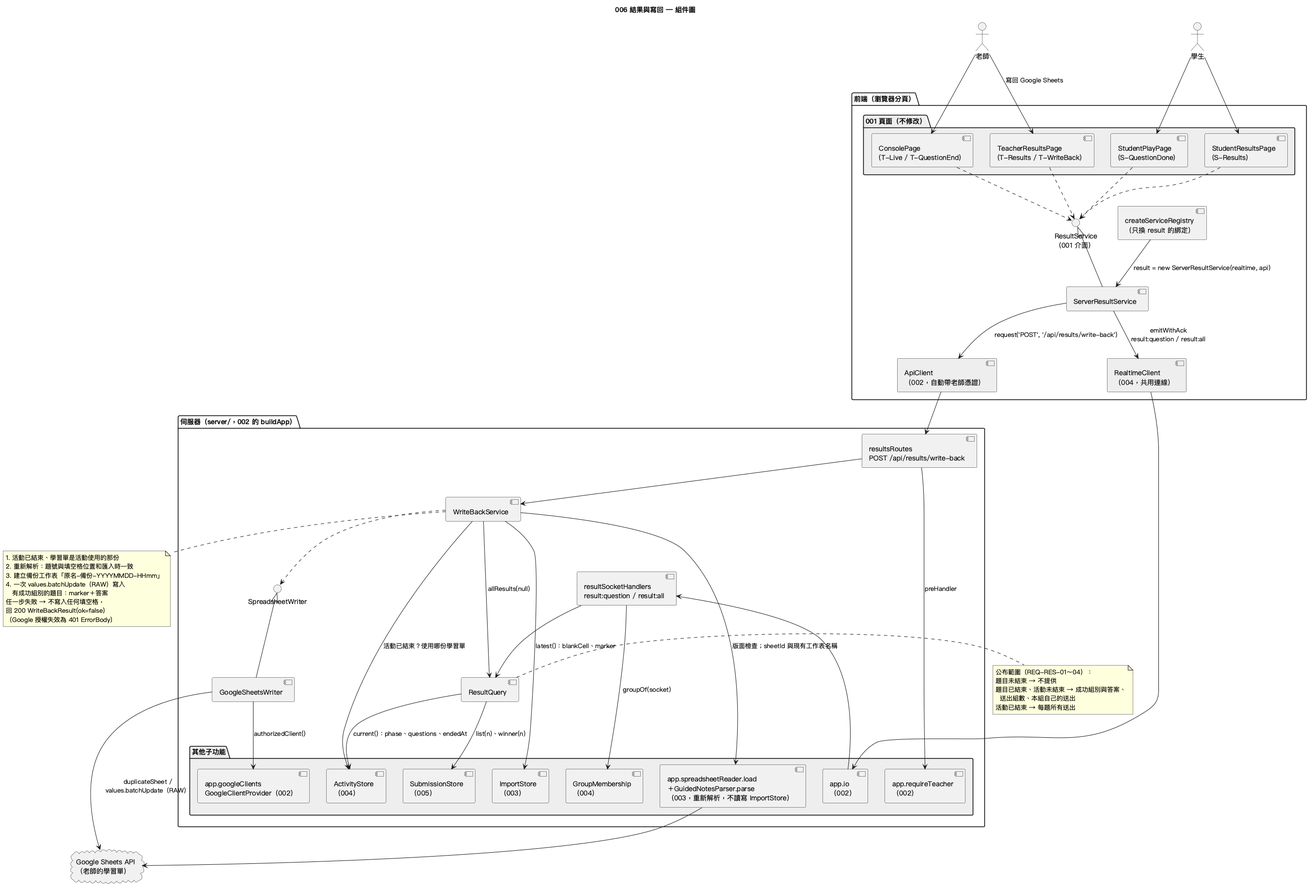
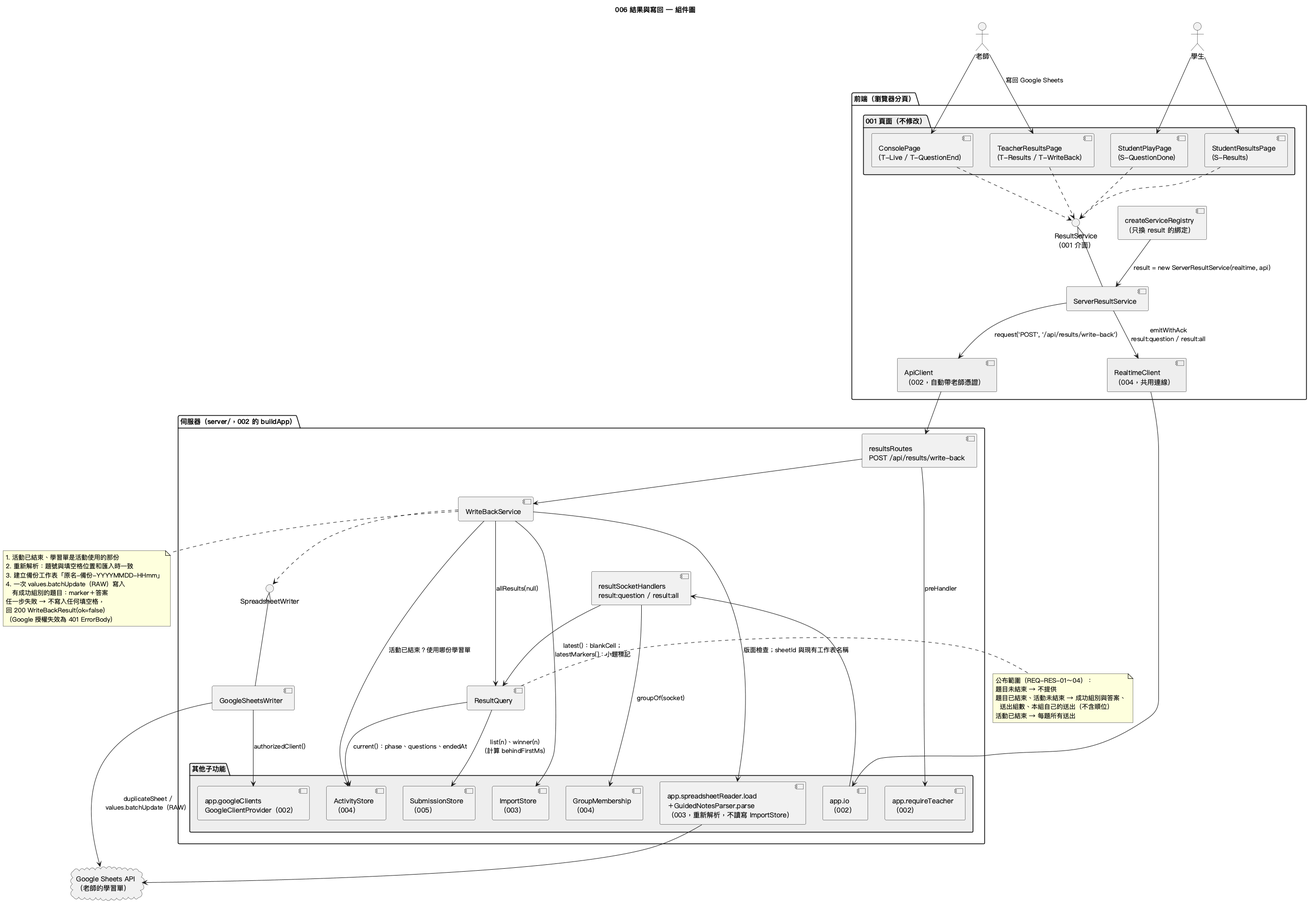
spec(006): 依 spec 修改同步設計、任務與圖表
spec 配合 001 最終版修改後，plan、research、data-model、contracts、quickstart、tasks 與三張圖也要跟著改，否則實作會照舊的介面做。重跑 analyze 沒有 CRITICAL、HIGH、MEDIUM。

diff --git a/specs/006-results-export/tasks.md b/specs/006-results-export/tasks.md
@@ -24,7 +24,7 @@ description: "Task list for 006 結果與寫回"
 **Purpose**: 006 的測試替身
 
 - [ ] T001 [P] 建立 `server/tests/helpers/FakeSpreadsheetWriter.ts`：實作 `SpreadsheetWriter`，記錄 `duplicateSheet`、`writeTexts` 的呼叫順序與參數；可設定任一方法丟出指定的錯誤（Google 401／403／404／500、逾時）
-- [ ] T002 [P] 建立 `server/tests/helpers/resultFakes.ts`：004 `ActivityStore`、`GroupMembership`，005 `SubmissionStore`（`list`、`winner`），003 `ImportStore`、`SpreadsheetReader`（`app.spreadsheetReader` 的替身，經 `buildApp` 的 `deps.spreadsheetReader` 注入；以 003 的 `server/tests/helpers/gridBuilder.ts` 產生 `SheetGrid`；可設定丟出 `SheetsReadError` 或 Google 401）的替身；`ActivityState` 含 `endedAt`；提供「4 題、6 組、第 2 題已結束、第 3 題搶答中」與「4 題已全部結束（含沒有送出、有 `UNJUDGED` 的題目）」兩份固定資料，題目內容與 001 `MockFixtures` 的「題組＋單題範本」相同（4 題，其中 2 題為題組；伺服器測試不引用前端檔案）
+- [ ] T002 [P] 建立 `server/tests/helpers/resultFakes.ts`：004 `ActivityStore`、`GroupMembership`，005 `SubmissionStore`（`list`、`winner`），003 `ImportStore`（`latest()` 與 `latestMarkers()`，題組小題帶「（1）」等標記）、`SpreadsheetReader`（`app.spreadsheetReader` 的替身，經 `buildApp` 的 `deps.spreadsheetReader` 注入；以 003 的 `server/tests/helpers/gridBuilder.ts` 產生 `SheetGrid`；可設定丟出 `SheetsReadError` 或 Google 401）的替身；`ActivityState` 含 `endedAt`；提供「4 題、6 組、第 2 題已結束、第 3 題搶答中」與「4 題已全部結束（含沒有送出、有 `UNJUDGED` 的題目，最後一題由老師接受而直接進入 `FINISHED`）」兩份固定資料，題目內容與 001 `MockFixtures` 的「題組＋單題範本」相同（4 題，其中 2 題為題組；伺服器測試不引用前端檔案）
 
 ---
 
@@ -48,7 +48,7 @@ description: "Task list for 006 結果與寫回"
 
 ### Tests for User Story 1 ⚠
 
-- [ ] T004 [P] [US1] `server/tests/unit/results/ResultQuery.question.test.ts`：已結束的題目回傳成功組別、各小題答案與 `submissionCount`（AC-01）；第 5 組只多拿到本組的送出、看不到其他沒有成功的組別（AC-02、REQ-RES-03）；有送出但沒有成功組別、沒有送出兩種情況（AC-03、AC-04）；`endedAt` 沒有該題時丟 `QUESTION_NOT_ENDED`（AC-05、REQ-RES-02）；`viewerGroup` 為 `null` 時 `submissions` 為空（AC-06）；沒有活動 → `NO_ACTIVITY`、題號 0、5、`1.5` → `QUESTION_NOT_FOUND`（REQ-RES-06）；`winner`、`submissions` 分別等於 005 替身的 `winner(n)`、`list(n)`（REQ-RES-05）
+- [ ] T004 [P] [US1] `server/tests/unit/results/ResultQuery.question.test.ts`：已結束的題目回傳成功組別、各小題答案與 `submissionCount`（AC-01）；第 5 組只多拿到本組的送出、看不到其他沒有成功的組別，回傳的 `winner` 與本組送出 `rank` 為 0、`behindFirstMs` 與 `submissions` 同長度且都是 0（AC-02、REQ-RES-03）；有送出但沒有成功組別、沒有送出兩種情況（AC-03、AC-04）；`endedAt` 沒有該題時丟 `QUESTION_NOT_ENDED`（AC-05、REQ-RES-02）；`viewerGroup` 為 `null` 時 `submissions` 為空（AC-06）；沒有活動 → `NO_ACTIVITY`、題號 0、5、`1.5` → `QUESTION_NOT_FOUND`（REQ-RES-06）；活動結束後 `winner`、`submissions` 分別等於 005 替身的 `winner(n)`、`list(n)`（REQ-RES-05）
 - [ ] T005 [P] [US1] `server/tests/integration/results/resultSocketHandlers.test.ts`：以 `socket.io-client` 連上 `buildApp` 建立的測試伺服器（`app.io`），`result:question` 的 ack 格式依 contracts；組別取自 `GroupMembership.groupOf(socket)`，payload 夾帶 `groupNumber` 也不影響結果（AC-06）；未結束的題目 ack `{ ok: false, code: "QUESTION_NOT_ENDED", message: "這一題還沒結束，結果尚未公布" }`（AC-05）
 - [ ] T006 [P] [US1] `server/tests/integration/results/resultLoad.test.ts`：200 個連線在題目結束後同時 emit `result:question`，全部在 1 秒內收到 ack（SC-005）
 - [ ] T007 [P] [US1] `frontend/tests/unit/ServerResultService.test.ts`（getQuestionResult 部分）：以假的 `RealtimeClient` 斷言呼叫 `emitWithAck("result:question", { questionNumber })`；ack 成功回傳 `QuestionResult`；ack `ok: false` → reject `UnexpectedError(message)`；`emitWithAck` reject 時原樣往上丟
@@ -71,13 +71,13 @@ description: "Task list for 006 結果與寫回"
 
 ### Tests for User Story 2 ⚠
 
-- [ ] T011 [P] [US2] `server/tests/unit/results/ResultQuery.all.test.ts`：`FINISHED` 時每題所有送出依 `rank` 排序，學生、老師、未加入組別的連線拿到相同內容（AC-07、AC-08、REQ-RES-04）；結束時待判定的送出為 `UNJUDGED` 且不是 `winner`（AC-09）；活動進行中只回第 1、2 題，每題只含呼叫者本組的送出（AC-10）；窮舉「題目未結束／已結束 × 活動未結束／已結束 × 6 組與 `null`」，未結束的題目送出出現 0 次、活動結束前他組未成功的送出出現 0 次（SC-006）
+- [ ] T011 [P] [US2] `server/tests/unit/results/ResultQuery.all.test.ts`：`FINISHED` 時每題所有送出依 `rank` 排序，學生、老師、未加入組別的連線拿到相同內容（AC-07、AC-08、REQ-RES-04）；結束時待判定的送出為 `UNJUDGED` 且不是 `winner`（AC-09）；`behindFirstMs` 以順位 1 的 `elapsedMs` 為基準，`elapsedMs` 3200、5000、5000 且第 2 名被接受時為 `[0, 1800, 1800]`，沒有送出時為 `[]`（AC-30、REQ-RES-21）；最後一題沒有 `endedAt` 但 `phase` 為 `FINISHED` 時仍算已結束；活動進行中只回第 1、2 題，每題只含呼叫者本組的送出且 `rank`、`behindFirstMs` 為 0（AC-10）；窮舉「題目未結束／已結束 × 活動未結束／已結束 × 6 組與 `null`」，未結束的題目送出出現 0 次、活動結束前他組未成功的送出出現 0 次（SC-006）
 - [ ] T012 [P] [US2] 在 `server/tests/integration/results/resultSocketHandlers.test.ts` 加入 `result:all`：ack 格式、只含已結束的題目、沒有活動 → `NO_ACTIVITY`
 - [ ] T013 [P] [US2] 在 `frontend/tests/unit/ServerResultService.test.ts` 加入 `getAllResults`：成功、`ok: false`、逾時
 
 ### Implementation for User Story 2
 
-- [ ] T014 [US2] 在 `server/src/results/ResultQuery.ts` 實作 `allResults`，在 `resultSocketHandlers.ts` 註冊 `result:all`，依 data-model 第 3 節
+- [ ] T014 [US2] 在 `server/src/results/ResultQuery.ts` 實作 `allResults` 與 `behindFirstMs` 的計算，在 `resultSocketHandlers.ts` 註冊 `result:all`，依 data-model 第 3 節與 research RD-12
 - [ ] T015 [US2] 在 `frontend/src/services/ServerResultService.ts` 實作 `getAllResults`
 
 **Checkpoint**: 全部結果可由伺服器取得，內容與 005 一致
@@ -93,7 +93,7 @@ description: "Task list for 006 結果與寫回"
 ### Tests for User Story 3 ⚠
 
 - [ ] T016 [P] [US3] `server/tests/unit/results/cellText.test.ts`：`composeCellText("（1）", "CPU") === "（1）CPU"`、標記為空時只回答案（AC-13、REQ-RES-08）；`backupName` 依本機時間產生 `原名-備份-YYYYMMDD-HHmm`，重名依序加 `-2`、`-3`（AC-17、REQ-RES-13）
-- [ ] T017 [P] [US3] `server/tests/unit/results/WriteBackService.success.test.ts`：呼叫順序為 `SpreadsheetReader.load` → `GuidedNotesParser.parse`（003 真正的 parser）→ `duplicateSheet`（`sheetId` 為該工作表的 `SheetGrid.sheetId`）→ `writeTexts`，`writeTexts` 只呼叫一次；`ImportStore.save` 沒有被呼叫（AC-12、REQ-RES-12、13、14）；寫入的儲存格恰好是有成功組別題目的每個小題 `blankCell`，沒有其他儲存格（AC-14、AC-15、REQ-RES-07、09、10）；題組小題的文字為「標記＋答案」（AC-13）；所有題目都沒有成功組別 → 不呼叫 `load`、`duplicateSheet`、`writeTexts`，回 `{ ok: true, cellCount: 0 }`（AC-18）；連續寫回兩次，兩次 `writeTexts` 的內容相同、`duplicateSheet` 各一次（AC-19、REQ-RES-18）；`cellCount` 等於寫入格數（REQ-RES-20）
+- [ ] T017 [P] [US3] `server/tests/unit/results/WriteBackService.success.test.ts`：呼叫順序為 `SpreadsheetReader.load` → `GuidedNotesParser.parse`（003 真正的 parser）→ `duplicateSheet`（`sheetId` 為該工作表的 `SheetGrid.sheetId`）→ `writeTexts`，`writeTexts` 只呼叫一次；`ImportStore.save` 沒有被呼叫（AC-12、REQ-RES-12、13、14）；寫入的儲存格恰好是有成功組別題目的每個小題 `blankCell`，沒有其他儲存格（AC-14、AC-15、REQ-RES-07、09、10）；題組小題的文字為「`latestMarkers()[blankCell]` ＋答案」，沒有標記的格子只寫答案（AC-13）；所有題目都沒有成功組別 → 不呼叫 `load`、`duplicateSheet`、`writeTexts`，回 `{ ok: true, cellCount: 0 }`（AC-18）；連續寫回兩次，兩次 `writeTexts` 的內容相同、`duplicateSheet` 各一次（AC-19、REQ-RES-18）；`cellCount` 等於寫入格數（REQ-RES-20）
 - [ ] T018 [P] [US3] `server/tests/unit/results/GoogleSheetsWriter.test.ts`（以假的 `@googleapis/sheets` 回應）：`writeTexts` 只送一次 `spreadsheets.values.batchUpdate`，`valueInputOption` 為 `RAW`，「=1+1」原樣送出（AC-16、REQ-RES-11）；範圍為 `'<工作表>'!<cell>`，名稱中的 `'` 變成 `''`；`duplicateSheet` 送出一個 `duplicateSheet` 請求（`sourceSheetId`、`newSheetName`）；每個請求設定 15 秒逾時；每次呼叫都向 `app.googleClients.authorizedClient()` 取授權
 - [ ] T019 [P] [US3] `server/tests/integration/results/resultsRoutes.test.ts`（Fastify `inject()`）：帶有效老師憑證 `POST /api/results/write-back` → `200` 與 `WriteBackResult`；`WriteBackService` 丟出 `WriteBackFailure` 時回 `200` 與 `{ ok: false, cellCount: 0, failureReason }`，只有 `GOOGLE_AUTH_EXPIRED` 回 `401` 與 `ErrorBody { code, message }`（以假的 `WriteBackService`）
 - [ ] T020 [P] [US3] 在 `frontend/tests/unit/ServerResultService.test.ts` 加入 `writeBack`：以假的 `ApiClient` 斷言呼叫 `request("POST", "/api/results/write-back")`；成功原樣回傳 body
@@ -140,9 +140,10 @@ description: "Task list for 006 結果與寫回"
 ## Phase 7: Polish & Cross-Cutting
 
 - [ ] T031 在 `frontend/src/services/createServiceRegistry.ts` 把 `result` 綁定改為 `ServerResultService`（傳入 004 的 `RealtimeClient` 與 002 的 `ApiClient`），並更新 001 的 `ServiceRegistry` 單元測試：`result` 不再是模擬實作，`MockResultService` 只留給測試
-- [ ] T032 `frontend/tests/e2e/results.spec.ts`（Playwright，沿用 005 的多分頁 E2E 環境，Google 以替身取代）：第 2 題結束時老師分頁與第 5 組分頁顯示成功組別與答案、第 5 組分頁顯示本組被拒絕的送出且沒有其他組的答案（AC-01、AC-02、SC-006）；活動結束後學生全部結果頁顯示每題所有送出並醒目標示本組（AC-07）、老師結果頁（AC-08）；T-WriteBack 的說明文字為「這些填空格原本的內容會被覆蓋，寫回前會先建立備份工作表」（AC-11、REQ-RES-19，需 001 先完成 spec「需請 001 修改」C1）；寫回成功與失敗的顯示（REQ-RES-20）
+- [ ] T032 `frontend/tests/e2e/results.spec.ts`（Playwright，沿用 005 的多分頁 E2E 環境，Google 以替身取代）：第 2 題結束時老師分頁與第 5 組分頁顯示成功組別與答案、第 5 組分頁顯示本組被拒絕的送出且沒有其他組的答案，題目進度只含已結束的題目（AC-01、AC-02、AC-10、SC-006）；活動結束後學生全部結果頁顯示每題所有送出並醒目標示本組（AC-07）、老師結果頁顯示每題所有送出與比第一名慢的秒數（AC-08、AC-30）；T-WriteBack 的說明文字為「這些填空格原本的內容會被覆蓋，寫回前會先建立備份工作表」（AC-11、REQ-RES-19，依 T035）；寫回成功與失敗的顯示（REQ-RES-20）
 - [ ] T033 依 [quickstart.md](quickstart.md) 的 16 個情境做人工驗證，紀錄寫入 `specs/006-results-export/manual-verification.md`（SC-001～SC-004、SC-008、AC-12～AC-17、AC-21～AC-26 的真實 Google 行為）
 - [ ] T034 圖表一致性驗證：比對程式碼與 `diagrams/006-*.puml` 的組件、類別、方法與呼叫順序，結果寫入 `specs/006-results-export/diagram-verification.md`（原則 I）
+- [ ] T035 確認 001 `TeacherResultsPage` 的 T-WriteBack 說明文字為「這些填空格原本的內容會被覆蓋，寫回前會先建立備份工作表」；不是時只改這段文字（001 FR-041 規定說明文字依 006 的寫回規則撰寫，不改頁面的欄位、按鈕與切換）（AC-11、REQ-RES-19）
 
 ---
 
@@ -161,6 +162,7 @@ description: "Task list for 006 結果與寫回"
 | REQ-RES-02 | AC-05 | T004、T005、T008、T009 |
 | REQ-RES-03 | AC-02、AC-06、SC-006 | T004、T005、T008、T032 |
 | REQ-RES-04 | AC-07、AC-08、AC-10 | T011、T012、T014、T015、T032 |
+| REQ-RES-21 | AC-30 | T011、T014、T032 |
 | REQ-RES-05 | AC-09 | T004、T011、T008 |
 | REQ-RES-06 | AC-05 | T004、T012、T008、T014 |
 | REQ-RES-07 | AC-12、SC-001 | T017、T023、T024、T033 |
@@ -175,7 +177,7 @@ description: "Task list for 006 結果與寫回"
 | REQ-RES-16 | AC-20 | T026、T029 |
 | REQ-RES-17 | AC-29 | T026、T029 |
 | REQ-RES-18 | AC-19、AC-28 | T017、T026、T029 |
-| REQ-RES-19 | AC-11 | T032（需 001 C1） |
+| REQ-RES-19 | AC-11 | T035、T032 |
 | REQ-RES-20 | AC-12、AC-22 | T017、T020、T025、T028、T030、T032 |
 
 | 成功準則 | 任務 |

diff --git a/specs/006-results-export/data-model.md b/specs/006-results-export/data-model.md
@@ -10,9 +10,9 @@
 
 | 實體／介面 | 欄位或方法 | 006 的用法 |
 | --- | --- | --- |
-| `QuestionResult` | `questionNumber`、`winner?: Submission`、`submissionCount`、`submissions: Submission[]` | `ResultQuery` 的回傳值；`submissions` 依公布範圍過濾（第 3 節） |
+| `QuestionResult` | `questionNumber`、`winner?: Submission`、`submissionCount`、`behindFirstMs: number[]`、`submissions: Submission[]` | `ResultQuery` 的回傳值；`submissions`、`behindFirstMs` 依公布範圍過濾（第 3 節） |
 | `Submission` | `questionNumber`、`groupNumber`、`answers`、`rank`、`elapsedMs`、`judgement` | 由 005 產生，006 只讀取 |
-| `SubQuestion` | `index`、`blankCell`、`marker` | `marker` 由 003 要求 001 新增（003 spec「需請 001 修改」）；006 寫入「`marker` ＋答案」 |
+| `SubQuestion` | `index`、`blankCell` | `blankCell` 是寫入位置；小題標記不在這裡，取自 003 `ImportStore.latestMarkers()`（第 5 節） |
 | `WriteBackResult` | `ok`、`cellCount`、`failureReason?` | 寫回的回傳值；`failureReason` 為 spec「寫回失敗原因」表的訊息 |
 | `ResultService` | `getQuestionResult`、`getAllResults`、`writeBack` | 由 `ServerResultService` 實作 |
 | `UnexpectedError` | `message` | `ServerResultService` 遇到非預期錯誤時 reject 的值（002 的 `ApiError` 符合這個形狀） |
@@ -39,10 +39,10 @@
 | `submissions: SubmissionStore` | 005 |
 | `questionResult(questionNumber, viewerGroup): QuestionResult` | `state = activities.current()`；`null` → `NO_ACTIVITY`；題號不在 `state.questions` → `QUESTION_NOT_FOUND`；`isEnded` 為 false → `QUESTION_NOT_ENDED`；否則回傳 `visible(full, state.phase === FINISHED, viewerGroup)` |
 | `allResults(viewerGroup): QuestionResult[]` | `state` 為 `null` → `NO_ACTIVITY`；否則依 `state.questions` 的順序，只含 `isEnded` 為 true 的題目，每題經 `visible` 過濾 |
-| `isEnded(state, questionNumber)` | `state.endedAt.has(questionNumber)`（research RD-03） |
-| `visible(full, finished, viewerGroup)` | `finished` → `full`；否則 `{ ...full, submissions: full.submissions.filter(s => s.groupNumber === viewerGroup) }`（`viewerGroup` 為 `null` 時為空陣列） |
+| `isEnded(state, questionNumber)` | `state.phase === FINISHED \|\| state.endedAt.has(questionNumber)`（research RD-03） |
+| `visible(full, finished, viewerGroup)` | `finished` → `full`；否則 `own = full.submissions.filter(s => s.groupNumber === viewerGroup)`（`viewerGroup` 為 `null` 時為空陣列），回傳 `{ questionNumber, submissionCount, winner: hide(full.winner), submissions: own.map(hide), behindFirstMs: own.map(() => 0) }`；`hide(s) = { ...s, rank: 0 }`（research RD-02） |
 
-`full` 的組成：`submissions = submissions.list(n)`（依 `rank` 排序）、`winner = submissions.winner(n) ?? undefined`、`submissionCount = submissions.list(n).length`。
+`full` 的組成：`submissions = submissions.list(n)`（依 `rank` 排序）、`winner = submissions.winner(n) ?? undefined`、`submissionCount = submissions.list(n).length`、`behindFirstMs = list.map(s => s.elapsedMs - list[0].elapsedMs)`（第一名為最早送出的組別，001 D23，research RD-12；沒有送出時為 `[]`）。
 
 ### `ResultQueryError`、`ResultQueryErrorCode`
 
@@ -72,15 +72,15 @@
 | `now` | 取得目前時間（測試可替換） |
 | `writeBack(): Promise<WriteBackResult>` | 依「寫回步驟」執行；成功回 `{ ok: true, cellCount }`；失敗丟出 `WriteBackFailure`，由 `resultsRoutes` 轉成 HTTP 回應（見下表） |
 | `firstLayoutMismatch(stored, current): number \| null` | research RD-04；`current` 為 `ImportError` 時回 `stored` 的第一題題號 |
-| `planCells(stored, results): CellText[]` | 對每個有 `winner` 的題目、每個小題 `i`：`{ cell: subQuestions[i].blankCell, text: composeCellText(subQuestions[i].marker, winner.answers[i]) }`；沒有 `winner` 的題目不產生 |
+| `planCells(stored, markers, results): CellText[]` | 對每個有 `winner` 的題目、每個小題 `i`：`cell = subQuestions[i].blankCell`、`{ cell, text: composeCellText(markers[cell] ?? '', winner.answers[i]) }`；沒有 `winner` 的題目不產生 |
 | `mapGoogleError(error, step): WriteBackFailure` | research RD-07 的對應表 |
 
 **寫回步驟**（與時序圖第 3 段一致）：
 
 1. `inProgress` 為 true → `IN_PROGRESS`；否則設為 true（`finally` 清除）。
 2. `state = activities.current()`；為 `null` 或 `phase !== FINISHED` → `NOT_FINISHED`。
-3. `stored = imports.latest()`；為 `null`，或 `stored.spreadsheet.id`、`stored.spreadsheet.selectedWorksheet` 與 `state.spreadsheet` 不同 → `IMPORT_CHANGED`。
-4. `cells = planCells(stored, query.allResults(null))`；為空 → 回 `{ ok: true, cellCount: 0 }`，不讀取、不備份、不寫入。
+3. `stored = imports.latest()`、`markers = imports.latestMarkers()`；`stored` 為 `null`，或 `stored.spreadsheet.id`、`stored.spreadsheet.selectedWorksheet` 與 `state.spreadsheet` 不同 → `IMPORT_CHANGED`。
+4. `cells = planCells(stored, markers, query.allResults(null))`；為空 → 回 `{ ok: true, cellCount: 0 }`，不讀取、不備份、不寫入。
 5. `loaded = reader.load(id)`（錯誤 → `mapGoogleError(·, READ)`）；`grid` 為 `loaded.sheets` 中名稱等於 `selectedWorksheet` 的一個，沒有 → `SHEET_NOT_FOUND`；`loaded.editable === false` → `NO_EDIT_PERMISSION`；`current = parser.parse(grid, stored.spreadsheet)`；`firstLayoutMismatch(stored, current)` 有題號 → `LAYOUT_CHANGED`。
 6. `writer.duplicateSheet(id, grid.sheetId, backupName(selectedWorksheet, now(), loaded.sheets.map(s => s.name)))`（錯誤 → `BACKUP`）。
 7. `writer.writeTexts(id, selectedWorksheet, cells)`（錯誤 → `WRITE`）。
@@ -143,7 +143,7 @@
 | `ActivityStore` | 004 | `current(): ActivityState \| null`：`phase`、`questions`、`spreadsheet`（`id`、`selectedWorksheet`）、`endedAt: Map<number, number>` |
 | `GroupMembership` | 004 | `groupOf(socket: { id: string }): number \| null` |
 | `SubmissionStore` | 005 | `list(questionNumber): Submission[]`（依 `rank` 排序）、`winner(questionNumber): Submission \| null` |
-| `ImportStore` | 003 | `latest(): Readonly<ImportSuccess> \| null` |
+| `ImportStore` | 003 | `latest(): Readonly<ImportSuccess> \| null`；`latestMarkers(): BlankMarkers \| null`（`blankCell` → 小題標記或 `""`，與 `latest()` 同一次讀取；只在伺服器）；以 `app.importStore` 提供 |
 | `SpreadsheetReader` | 003 | `load(spreadsheetId): Promise<LoadedSpreadsheet>`（`id`、`title`、`editable`、`sheets: SheetGrid[]`）；錯誤為 `SheetsReadError`（`kind`：`NO_ACCESS`、`UNAVAILABLE`、`AUTH_EXPIRED`），沒有老師登入時丟 002 的 `TeacherNotSignedInError`；以 `app.spreadsheetReader` 提供；不讀寫 `ImportStore` |
 | `SheetGrid` | 003 | `sheetId`、`name` |
 | `GuidedNotesParser` | 003 | `parse(grid: SheetGrid, spreadsheet: Spreadsheet): ImportSuccess \| ImportError`（沒有狀態，自行 `new`；不碰網路、不讀寫 `ImportStore`；失敗以回傳 `ImportError` 表示，不丟例外） |

diff --git a/specs/006-results-export/analyze-report.md b/specs/006-results-export/analyze-report.md
@@ -76,3 +76,41 @@
 
 - 沒有 CRITICAL、HIGH、MEDIUM，依 CLAUDE.md 第 2 節，經人工審查後可進入 `/speckit-implement`。
 - 實作前請 TingYi 處理 spec「需請 001 修改」C1～C4（以及 003 要求的 `SubQuestion.marker`）。
+
+---
+
+## 第 4 次分析（配合 001 最終版，2026-11-22）
+
+**對照**: 001 最終版（`specs/001-ui-prototype/`、`diagrams/001-*`，PR #10）、`docs/feature-split.md` 最新版、003 contracts/import-store.md（`latestMarkers()`）、004 data-model（`ActivityState`）、005 contracts/submission-store.md。上面第 1～3 輪的 L1、L2 與「需請 001 修改 C1～C4」已被本輪取代。
+
+### 發現並已修正
+
+| ID | Category | Severity | Location(s) | Summary | 修正 |
+|----|----------|----------|-------------|---------|------|
+| A1 | Coverage | HIGH | spec、data-model、contracts、類別圖 | 001 新增 `QuestionResult.behindFirstMs` 與 D23（第一名的定義交給 006），006 沒有需求、AC 與計算方式 | 新增 REQ-RES-21、AC-30；D23 定為最早送出的組別（research RD-12）；`ResultQuery` 計算，contracts 與類別圖加入欄位 |
+| A2 | Inconsistency | HIGH | spec REQ-RES-03、AC-02；contracts；research RD-02 | 整輪結束前回傳本組送出時帶真正的順位；feature-split 第 4 節只在整輪結束後公開順位 | 整輪結束前每筆 `Submission`（含 `winner`）`rank` 填 0、`behindFirstMs` 值為 0（與 005 相同做法，等 001 把 `rank` 改成可選） |
+| A3 | Inconsistency | HIGH | data-model、類別圖、時序圖、tasks | 小題標記用 `SubQuestion.marker`，001 最終版沒有這個欄位 | 改用 003 `app.importStore.latestMarkers()[blankCell]`（只在伺服器）；寫回預覽顯示不含標記的答案，寫在 Assumptions |
+| A4 | Inconsistency | MEDIUM | spec「需請 001 修改」 | C1～C4 仍要求 001 修改；使用者 2026-11-22 決定不再請 001 改 | 改為「無」：確認視窗文字依 001 FR-041 由 006 決定（新增 T035 確認頁面文字）；公布範圍已由 feature-split 第 4 節定案；結束時間已從 001 移除；預覽不含標記 |
+| A5 | Inconsistency | MEDIUM | research RD-03、data-model `isEnded` | 001 與 feature-split：最後一題結束或被接受時直接進入 `FINISHED`，不經過「本題已結束」 | `isEnded` 改為 `phase === FINISHED \|\| endedAt.has(n)`；Edge Cases、時序圖註記 |
+| A6 | Underspecification | MEDIUM | spec AC-24、Edge Cases、quickstart 13 | 001 D21 尚未實作：老師重新登入後回不到結果頁，原本「重新登入後再寫回可以成功」做不到；002 任何人登入都會取代老師 | AC-24、Edge Cases 寫明暫時限制；Assumptions 寫明寫回使用最後登入帳號的授權 |
+| A7 | Coverage | MEDIUM | spec Clarifications、tasks | S-QuestionDone 也呼叫 `getAllResults`（001 contracts） | Clarifications 與 AC-10 寫明同一套公布範圍；T032 檢查題目進度只含已結束的題目 |
+
+### 重跑結果
+
+| ID | Category | Severity | Location(s) | Summary | Recommendation |
+|----|----------|----------|-------------|---------|----------------|
+| L5 | Dependency | LOW | spec AC-24、Edge Cases | 寫回失敗後重新登入無法回到結果頁，直到 001 完成 D21 | 已寫明為暫時限制；001 實作 D21 後不需再改 006 |
+| L6 | Consistency | LOW | spec Assumptions | 001「相對於設計稿的調整」仍把「寫回前建立備份工作表」列為移除的畫面元素 | 006 的備份只在伺服器執行、頁面不顯示，與該表不衝突；已寫明 |
+| L3 | Underspecification | LOW | spec AC-26 | 寫入逾時無法確認（沿用） | 已列為待使用者確認 |
+| L4 | Consistency | LOW | research RD-04 | 找不到工作表回報 `SHEET_NOT_FOUND`（沿用） | 不需修改 |
+
+**Constitution Alignment Issues**: 無。VI：整輪結束前不公開順位與差距、學生只拿到本組的送出，在伺服器端過濾（001 contracts「學生端只取得可公開的結果」）；II：新增的 REQ-RES-21 有 AC-30 與 T011、T014、T032；I：三張圖已更新並重新產生 PNG。
+
+### Metrics（第 4 次）
+
+- Total Requirements: 21
+- Total Acceptance Criteria: 30
+- Total Success Criteria: 8
+- Total Tasks: 35
+- Coverage: 100%（每條需求與 AC 都有任務）
+- Critical Issues Count: 0（HIGH 0、MEDIUM 0、LOW 4）

diff --git a/specs/006-results-export/research.md b/specs/006-results-export/research.md
@@ -21,14 +21,14 @@
 
 - **Decision**: `ResultQuery` 先從 005 的 `SubmissionStore` 組出完整的 `QuestionResult`，再以 `visible(full, finished, viewerGroup)` 過濾：
   - 題目未結束 → 不回傳（`questionResult` 丟 `QUESTION_NOT_ENDED`；`allResults` 略過該題）。
-  - 題目已結束、活動未結束 → `winner`、`submissionCount` 原樣；`submissions` 只留 `groupNumber === viewerGroup` 的那一筆（`viewerGroup` 為 `null` 時為空）。
-  - 活動已結束（`FINISHED`）→ 原樣：所有送出，依 `rank` 排序。
-- **Rationale**: 一個純函式涵蓋三種情況，容易以單元測試窮舉（SC-006）；過濾在權威來源端執行（原則 VI）。老師在 T-QuestionEnd 只需要成功組別與送出組數（001 FR-034），不需要另外的老師版本（原則 XI）。
+  - 題目已結束、活動未結束 → `winner`、`submissionCount` 原樣；`submissions` 只留 `groupNumber === viewerGroup` 的那一筆（`viewerGroup` 為 `null` 時為空）；回傳的每筆 `Submission`（含 `winner`）`rank` 填 0，`behindFirstMs` 與 `submissions` 同長度、值都是 0。
+  - 活動已結束（`FINISHED`）→ 原樣：所有送出，依 `rank` 排序，`behindFirstMs` 為真正的值。
+- **Rationale**: feature-split 第 4 節：一題結束時只公布成功組別、答案與送出組數，順位與判定到整輪結束才公開；本組的送出是 001 FR-057 要顯示的「本組送出的答案」。`rank` 在 001 是必填欄位，用 0 表示「不公開」，與 005 給學生的 `Submission` 做法相同（使用者 2026-11-22 決定，等 001 把 `rank` 改成可選）。一個純函式涵蓋三種情況，容易以單元測試窮舉（SC-006）；過濾在權威來源端執行（原則 VI；001 contracts「學生端只取得可公開的結果」）。S-QuestionDone 的題目進度也走 `getAllResults`，套用同一個過濾。老師在 T-QuestionEnd 只需要成功組別與送出組數（001 FR-034），不需要另外的老師版本（原則 XI）。
 - **Alternatives considered**: 依角色分成老師版與學生版兩種回傳型別（要改 001 的實體與介面）。
 
 ## RD-03 怎麼判斷「一題已結束」
 
-- **Decision**: 讀 004 `ActivityStore.current()` 回傳的 `ActivityState`：第 n 題已結束 ⇔ `state.endedAt.has(n)`；活動已結束 ⇔ `state.phase === FINISHED`。沒有活動時 `current()` 為 `null`。
+- **Decision**: 讀 004 `ActivityStore.current()` 回傳的 `ActivityState`：第 n 題已結束 ⇔ `state.phase === FINISHED || state.endedAt.has(n)`；活動已結束 ⇔ `state.phase === FINISHED`。沒有活動時 `current()` 為 `null`。
 - **Rationale**: `endedAt` 是 004 在結束一題時寫入的權威狀態（004 data-model `ActivityState`），直接讀就好，不必依題號順序推算（原則 V）；004 讓最後一題結束時 `phase` 變成 `FINISHED`，所以活動結束時每一題都在 `endedAt` 中。
 
 ## RD-04 寫回前的版面檢查
@@ -95,3 +95,9 @@
   - 端對端（Playwright）：老師與學生分頁看到本題結果、全部結果，確認視窗文字（沿用 005 的 E2E 環境，Google 以替身取代）。
   - 真正連線 Google Sheets 的寫回只做人工驗證（[quickstart.md](quickstart.md)），紀錄寫入 `manual-verification.md`（原則 VIII）。
 - **Rationale**: 自動化測試不連真實的 Google（原則 VIII）；寫回的每個失敗分支都能在沒有網路時重現。
+
+## RD-12 「比第一名慢的時間」（001 D23）
+
+- **Decision**: 第一名是該題最早送出的組別（`rank` 1）。`ResultQuery` 計算 `behindFirstMs = list.map(s => s.elapsedMs - list[0].elapsedMs)`，與 `submissions` 同順序、單位毫秒；頁面只換算成秒（001 FR-040）。整輪結束前不公開（值為 0，RD-02）。
+- **Rationale**: 001 FR-040 的文字是「其他組別比第一名慢的秒數」，跟搶答順位一起呈現；以最早送出為基準時，每一列都是非負值、隨順位遞增（005 保證 `elapsedMs` 隨 `rank` 單調不減），老師一眼看得出各組的速度差。被接受的組別已另外標示為成功組別。
+- **Alternatives considered**: 以被接受的組別為第一名（被拒絕但較早送出的組別會是負值；沒有成功組別的題目無法計算）。

diff --git a/specs/006-results-export/quickstart.md b/specs/006-results-export/quickstart.md
@@ -29,19 +29,19 @@ npx playwright test -c frontend/playwright.config.ts results
 
 | # | 操作 | 預期結果 | 對應 |
 | --- | --- | --- | --- |
-| 1 | 第 1 題結束時看第 2 組學生分頁 | 1 秒內出現成功組別第 1 組與答案，以及本組的送出（不接受）；看不到其他組的答案 | AC-01、AC-02、SC-005 |
+| 1 | 第 1 題結束時看第 2 組學生分頁 | 1 秒內出現成功組別第 1 組與答案、送出組數，以及本組的送出（不接受，不顯示順位）；看不到其他組的答案；題目進度只有第 1 題 | AC-01、AC-02、AC-10、SC-005 |
 | 2 | 第 2 題進行中，在學生分頁的瀏覽器主控台送出 `result:question` 第 2 題 | 回「這一題還沒結束，結果尚未公布」 | AC-05 |
 | 3 | 第 3、4 題結束時看老師與學生分頁 | 第 3 題「沒有組別搶答成功」，第 4 題「沒有組別送出」 | AC-03、AC-04 |
 | 4 | 活動結束後看學生分頁 | 每題所有送出的順位、組別、答案與判定；本組醒目標示 | AC-07 |
-| 5 | 活動結束後看老師結果頁 | 每題成功組別、送出組數、比第一名慢的秒數、各組搶到的題數 | AC-08 |
+| 5 | 活動結束後看老師結果頁 | 每題成功組別、送出組數、每題所有送出的順位與判定、比第一名（最早送出的組別）慢的秒數、各組搶到的題數 | AC-08、AC-30 |
 | 6 | 先在試算表第 2 題的填空格手動打字，再按「寫回 Google Sheets」 | 確認視窗文字為「這些填空格原本的內容會被覆蓋，寫回前會先建立備份工作表」 | AC-11 |
-| 7 | 按「寫回」，打開試算表 | 多一個「原名-備份-YYYYMMDD-HHmm」工作表，內容與寫回前相同；第 1、2 題填空格為成功答案，`=1+1` 顯示為文字；第 3、4 題填空格不變；題組小題保留「（1）」等標記 | AC-12～AC-16、SC-001、SC-008 |
+| 7 | 按「寫回」，打開試算表（寫回預覽只顯示答案，不含小題標記） | 多一個「原名-備份-YYYYMMDD-HHmm」工作表，內容與寫回前相同；第 1、2 題填空格為成功答案，`=1+1` 顯示為文字；第 3、4 題填空格不變；題組小題保留「（1）」等標記 | AC-12～AC-16、SC-001、SC-008 |
 | 8 | 用版本記錄比對寫回前後 | 只有第 1、2 題的填空格不同 | AC-15、SC-002 |
 | 9 | 同一分鐘內再寫回一次 | 新備份名稱加「-2」；填空格內容與上一次相同 | AC-17、AC-19 |
 | 10 | 在試算表第 2 題上方插入一列後寫回 | 失敗，指出第 2 題；沒有新增備份、沒有格子被改 | AC-21、SC-007 |
 | 11 | 改用只能檢視的試算表跑一輪後寫回 | 「沒有編輯權限，無法寫回…」，試算表沒被改 | AC-22 |
 | 12 | 把學習單工作表改名後寫回 | 「找不到學習單…」 | AC-23 |
-| 13 | 在 Google 帳號的第三方存取中移除本系統後寫回；再用同一帳號重新登入、回到控制台後寫回 | 先「Google 授權已失效…」，重新登入後成功 | AC-24 |
+| 13 | 在 Google 帳號的第三方存取中移除本系統後寫回 | 「Google 授權已失效…」，試算表沒被改；重新登入後進入挑選學習單頁（001 D21 完成前的暫時限制），伺服器的 `result:all` 仍回傳結果 | AC-24 |
 | 14 | 寫回時關掉網路 | 15 秒內顯示連不上 Google 的原因；恢復後重試成功，結果相同 | AC-25、AC-26 |
 | 15 | 用變形試算表跑一輪後寫回 | 答案寫在正確的填空格，不需修改程式 | SC-003 |
 | 16 | 200 題的學習單，用 005 的壓力測試腳本自動跑完（每題都有一組被接受）後寫回 | 5 秒內完成 | SC-004 |

diff --git a/specs/006-results-export/plan.md b/specs/006-results-export/plan.md
@@ -37,7 +37,7 @@
 | 原則 | 檢查 | 結果 |
 | --- | --- | --- |
 | I. PlantUML 設計優先 | 三張圖與 PNG 都在 `diagrams/`；本計畫的組件、類別與順序都依圖（「藍圖對照」） | 通過 |
-| II. 規格先行與可追溯性 | 計畫沒有加入 spec 沒有的行為；每條 REQ-RES 都有 AC 或 SC，tasks 階段對應任務與測試；需要 001 改頁面的地方已列在 spec「需請 001 修改」，不在 006 修改 | 通過 |
+| II. 規格先行與可追溯性 | 計畫沒有加入 spec 沒有的行為；每條 REQ-RES 都有 AC 或 SC，tasks 階段對應任務與測試；006 不需修改 001（spec「需請 001 修改」為無），只依 001 FR-041 決定確認視窗的文字 | 通過 |
 | III. 分層架構與依賴抽象 | 頁面 → `ResultService` ← `ServerResultService`，只改組合根的綁定；`WriteBackService` 只依賴 `SpreadsheetWriter` 介面與其他子功能公開的 store，Google 只出現在 `GoogleSheetsWriter`；001～005 的既有實作不修改 | 通過 |
 | IV. 外部資料於執行期解析 | 寫入位置只來自 003 匯入時解析出的 `blankCell`；版面檢查重用 003 的解析規則；對不上就拒絕，不猜測 | 通過 |
 | V. 單一權威狀態來源 | 結果只由 004、005 的權威狀態組出，不另存、不重新判定；頁面只呈現回傳的 `QuestionResult` | 通過 |
@@ -125,13 +125,14 @@ frontend/
 | 002 `ErrorBody`；`ApiClient` 遇到非 2xx 只保留 `{ status, code, message }` | 寫回的預期失敗一律 `200` + `WriteBackResult { ok: false }`；非 2xx 只用於兩種 401 與 500；socket ack 失敗用 `{ ok: false, code, message }` | 同上 |
 | 002 `app.io` | 註冊 `result:question`、`result:all` | 002 contracts/socket-handshake.md |
 | 002 前端 `ApiClient.request(method, path, body?)`、`ApiError` | `ServerResultService.writeBack` | 002 contracts/server-extension.md |
-| 003 `ImportStore.latest()` | `spreadsheet.id`、`selectedWorksheet`、`blankCell`、`marker` | 003 contracts/import-store.md |
+| 003 `app.importStore.latest()`、`latestMarkers()` | `spreadsheet.id`、`selectedWorksheet`、`blankCell`；`latestMarkers()[blankCell]` 為小題標記（只在伺服器） | 003 contracts/import-store.md |
 | 003 `app.spreadsheetReader.load()`、`SheetGrid`、`new GuidedNotesParser().parse()`、`SheetsReadError`（`NO_ACCESS`／`UNAVAILABLE`／`AUTH_EXPIRED`） | 版面檢查（不讀寫 `ImportStore`）；`sheetId` 與現有工作表名稱給備份用 | 003 contracts/import-store.md「給 006 的讀取工具」 |
 | 004 `ActivityStore.current(): ActivityState \| null` | `phase`、`questions`、`spreadsheet`、`endedAt` | 004 contracts/server-modules.md、data-model |
 | 004 `GroupMembership.groupOf(socket)` | 查詢者的組別 | 同上 |
 | 004 前端 `RealtimeClient.emitWithAck` | `result:*` 的送出與 5 秒逾時 | 004 data-model |
 | 005 `SubmissionStore.list(n)`、`winner(n)` | 每題依順位的送出與成功送出 | 005 contracts/submission-store.md |
-| 001 `SubQuestion.marker` | 寫入「標記＋答案」 | 003 spec「需請 001 修改」（006 不另外要求） |
+| 001 `QuestionResult.behindFirstMs`、D23 | `ResultQuery` 計算，第一名為最早送出的組別 | 001 data-model、contracts（research RD-12） |
+| 001 `getAllResults` 的呼叫頁面（含 S-QuestionDone） | 同一套公布範圍 | 001 contracts |
 
 ## Complexity Tracking
 

diff --git a/specs/006-results-export/contracts/results-api.md b/specs/006-results-export/contracts/results-api.md
@@ -18,7 +18,7 @@
 | --- | --- | --- |
 | `NO_ACTIVITY` | 目前沒有活動 | `ActivityStore.current()` 為 `null` |
 | `QUESTION_NOT_FOUND` | 沒有這一題 | 題號不在活動的題目中 |
-| `QUESTION_NOT_ENDED` | 這一題還沒結束，結果尚未公布 | `ActivityState.endedAt` 沒有這一題（REQ-RES-02） |
+| `QUESTION_NOT_ENDED` | 這一題還沒結束，結果尚未公布 | 活動還沒結束，且 `ActivityState.endedAt` 沒有這一題（REQ-RES-02） |
 
 ### `result:all`
 
@@ -26,13 +26,15 @@
 - **ack 成功**: `{ ok: true, results: QuestionResult[] }`：依題號排序，只含已結束的題目
 - **ack 失敗**: `{ ok: false, code: "NO_ACTIVITY", message: "目前沒有活動" }`
 
-### `QuestionResult` 的公布範圍（兩個事件相同）
+### `QuestionResult` 的公布範圍（兩個事件相同；feature-split 第 4 節）
 
-| 狀態 | `winner` | `submissionCount` | `submissions` |
-| --- | --- | --- | --- |
-| 題目未結束 | 不回傳該題 | — | — |
-| 題目已結束、活動未結束 | 005 `winner(n)`（沒有時不設） | `list(n).length` | 只有呼叫者所屬組別的那一筆；老師與沒有加入組別的連線為 `[]` |
-| 活動已結束（`FINISHED`） | 同上 | 同上 | 005 `list(n)`：該題所有送出，依 `rank` 遞增 |
+| 狀態 | `winner` | `submissionCount` | `submissions` | `behindFirstMs` |
+| --- | --- | --- | --- | --- |
+| 題目未結束 | 不回傳該題 | — | — | — |
+| 題目已結束、活動未結束 | 005 `winner(n)`（沒有時不設），`rank` 填 0 | `list(n).length` | 只有呼叫者所屬組別的那一筆，`rank` 填 0；老師與沒有加入組別的連線為 `[]` | 與 `submissions` 同長度，值都是 0 |
+| 活動已結束（`FINISHED`） | 005 `winner(n)` | 同上 | 005 `list(n)`：該題所有送出，依 `rank` 遞增 | 每筆 `elapsedMs` − 順位 1 的 `elapsedMs`（001 D23：第一名為最早送出的組別） |
+
+`rank` 填 0 表示不公開順位，與 005 給學生的 `Submission` 相同（001 的 `rank` 改成可選之前的做法）。
 
 `Submission.judgement` 沿用 005：題目結束後只有 `ACCEPTED`、`REJECTED`、`UNJUDGED`。
 
